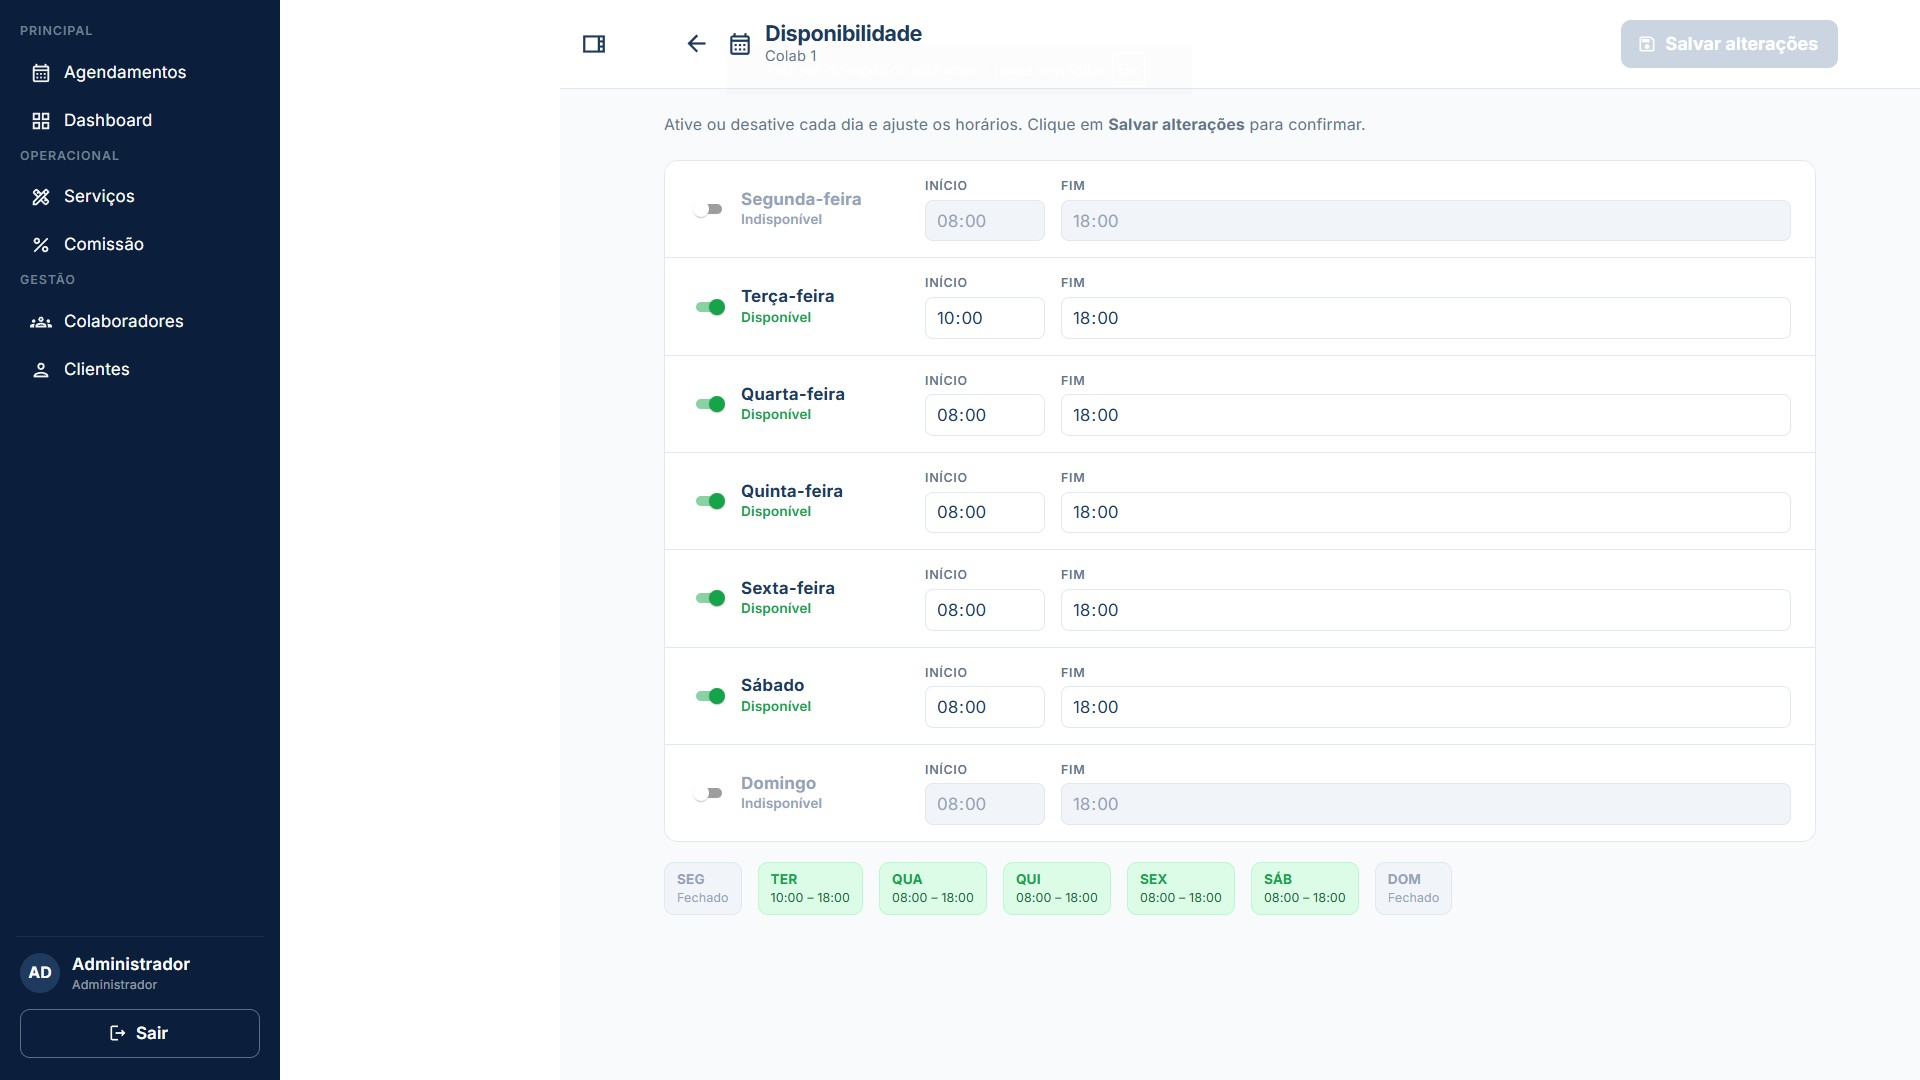
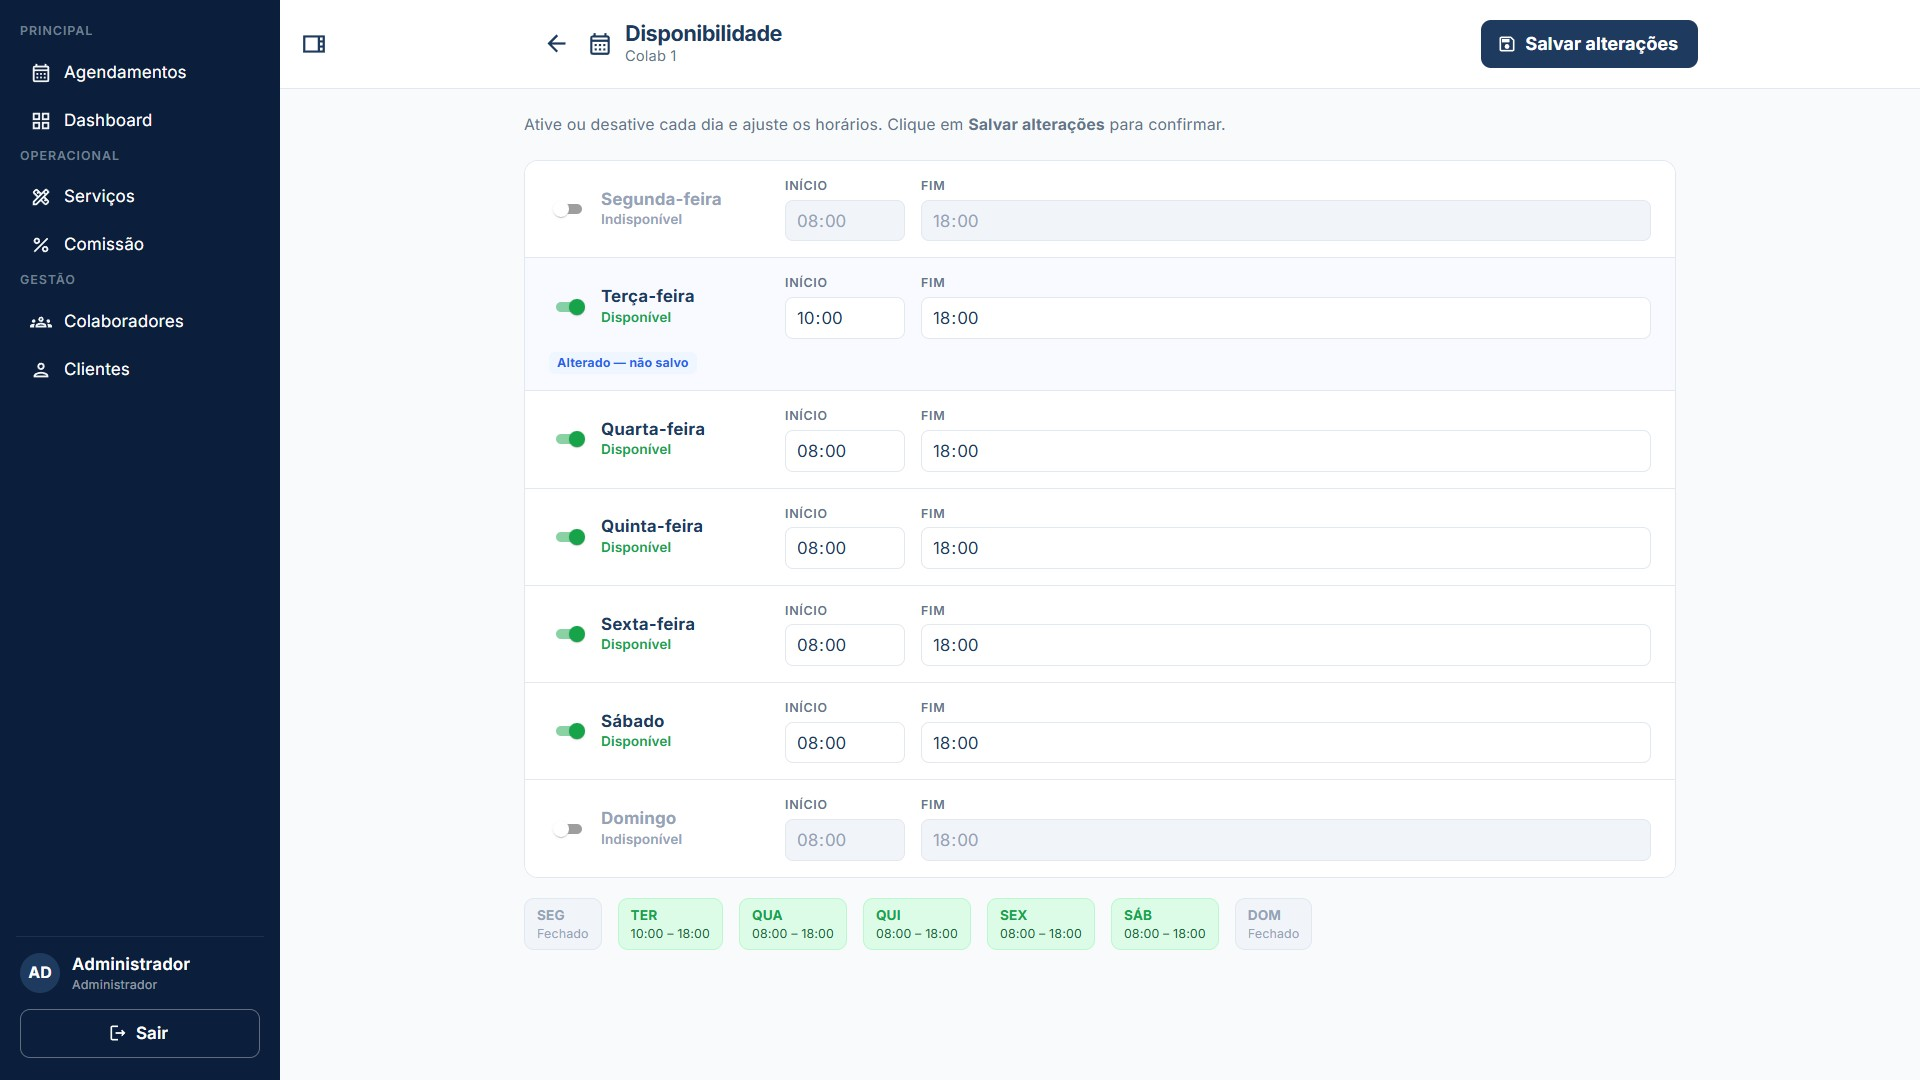
Atualiza a documentação de agendamentos

diff --git a/docs/processo-3-gestao-de-agendamento.md b/docs/processo-3-gestao-de-agendamento.md
@@ -16,7 +16,7 @@ A informatização do processo de Gestão de Agendamento traz as seguintes oport
 
 Em seguida, apresenta-se o modelo do processo de Gestão de Agendamento, descrito no padrão BPMN:
 
-![Modelo BPMN do Processo 3](diagrams/Agendamentos2.png)
+![Modelo BPMN do Processo 3](diagrams/bmpn-gestao-de-agendamento.png)
 
 ## Processo Gestão de Agendamento
 
